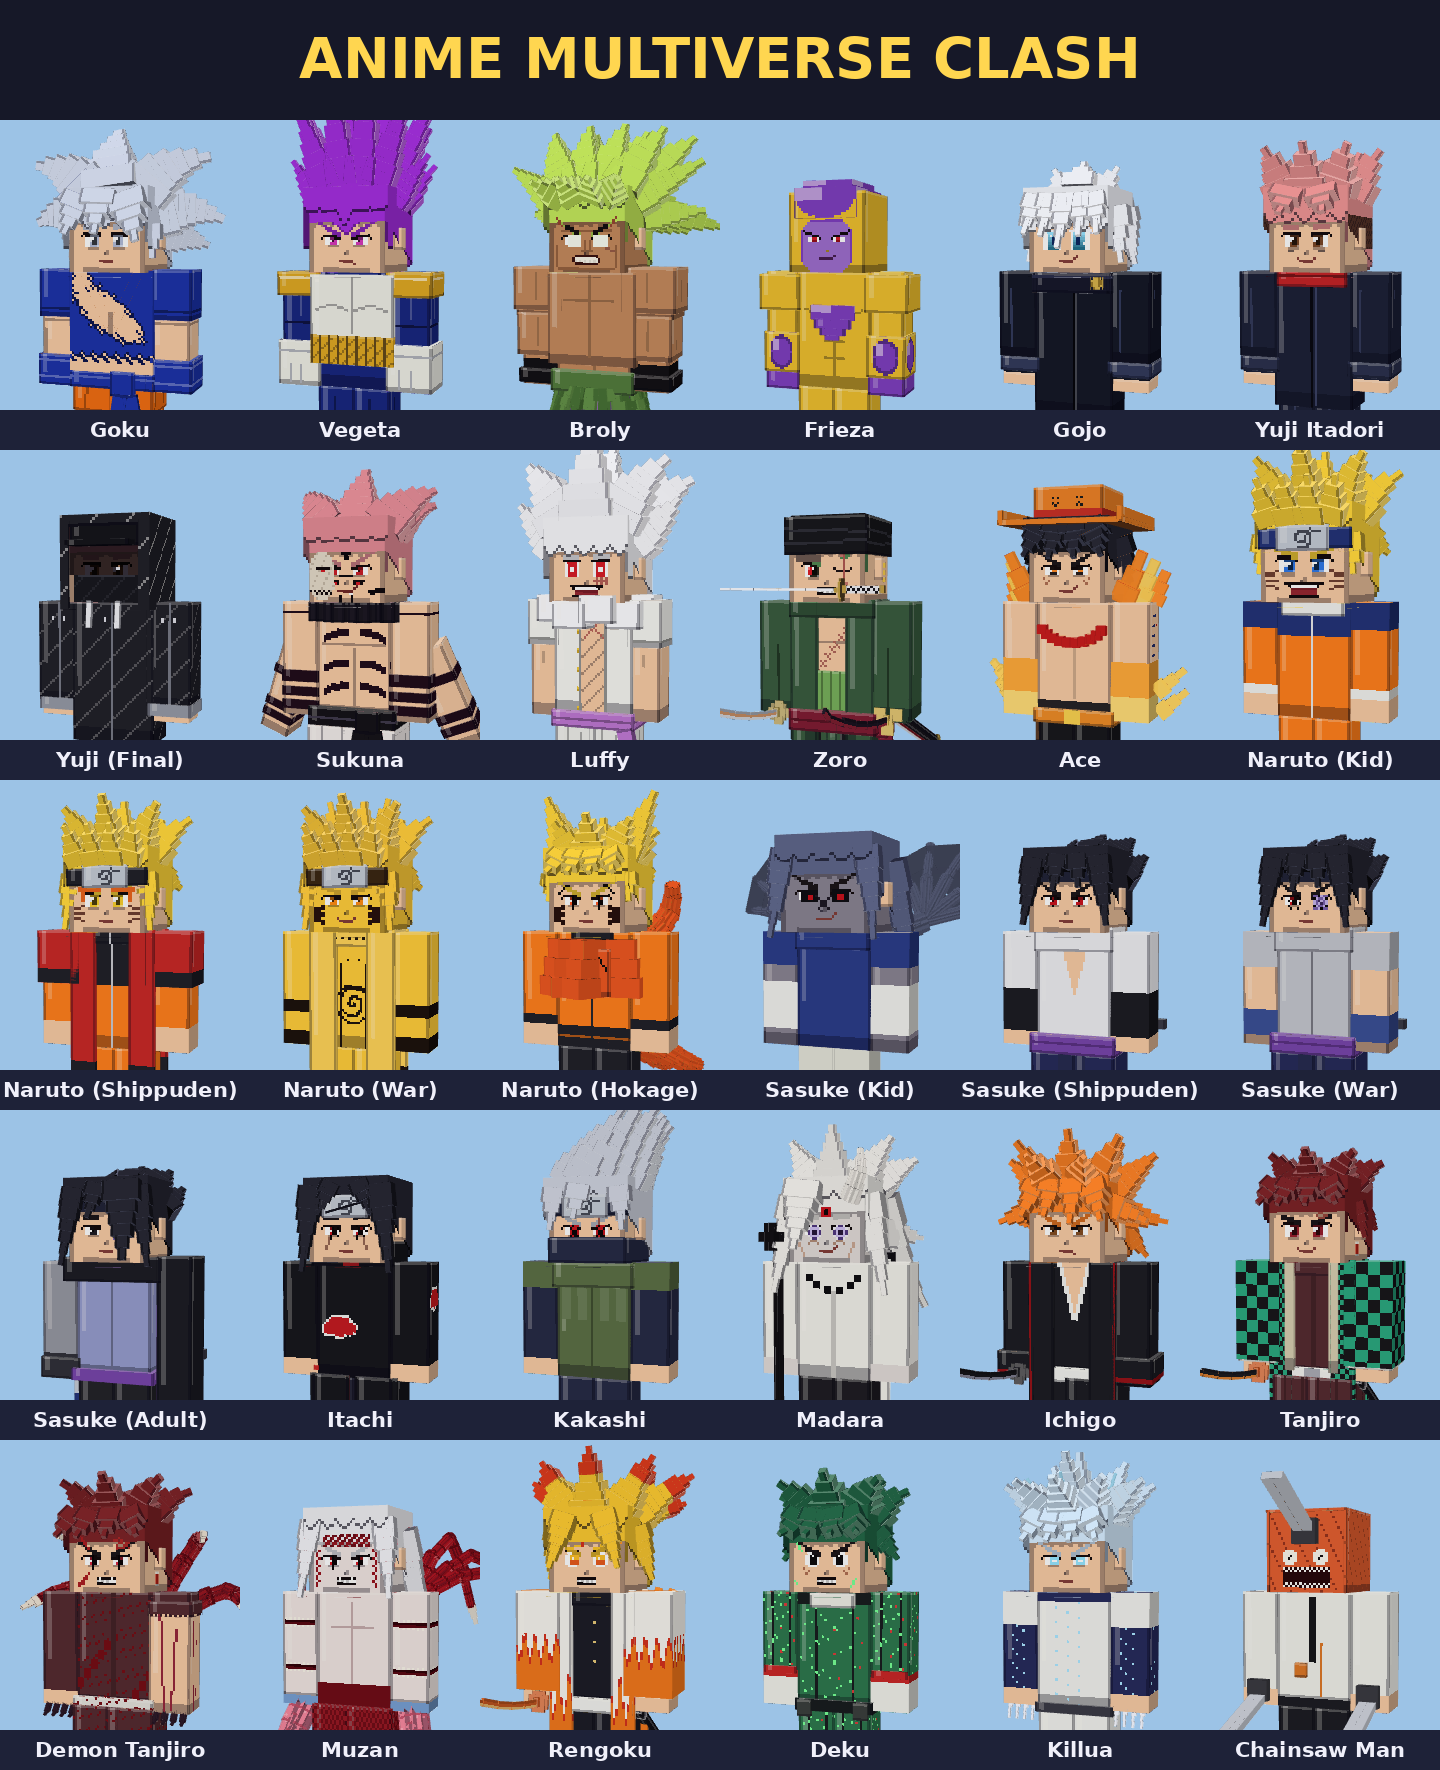
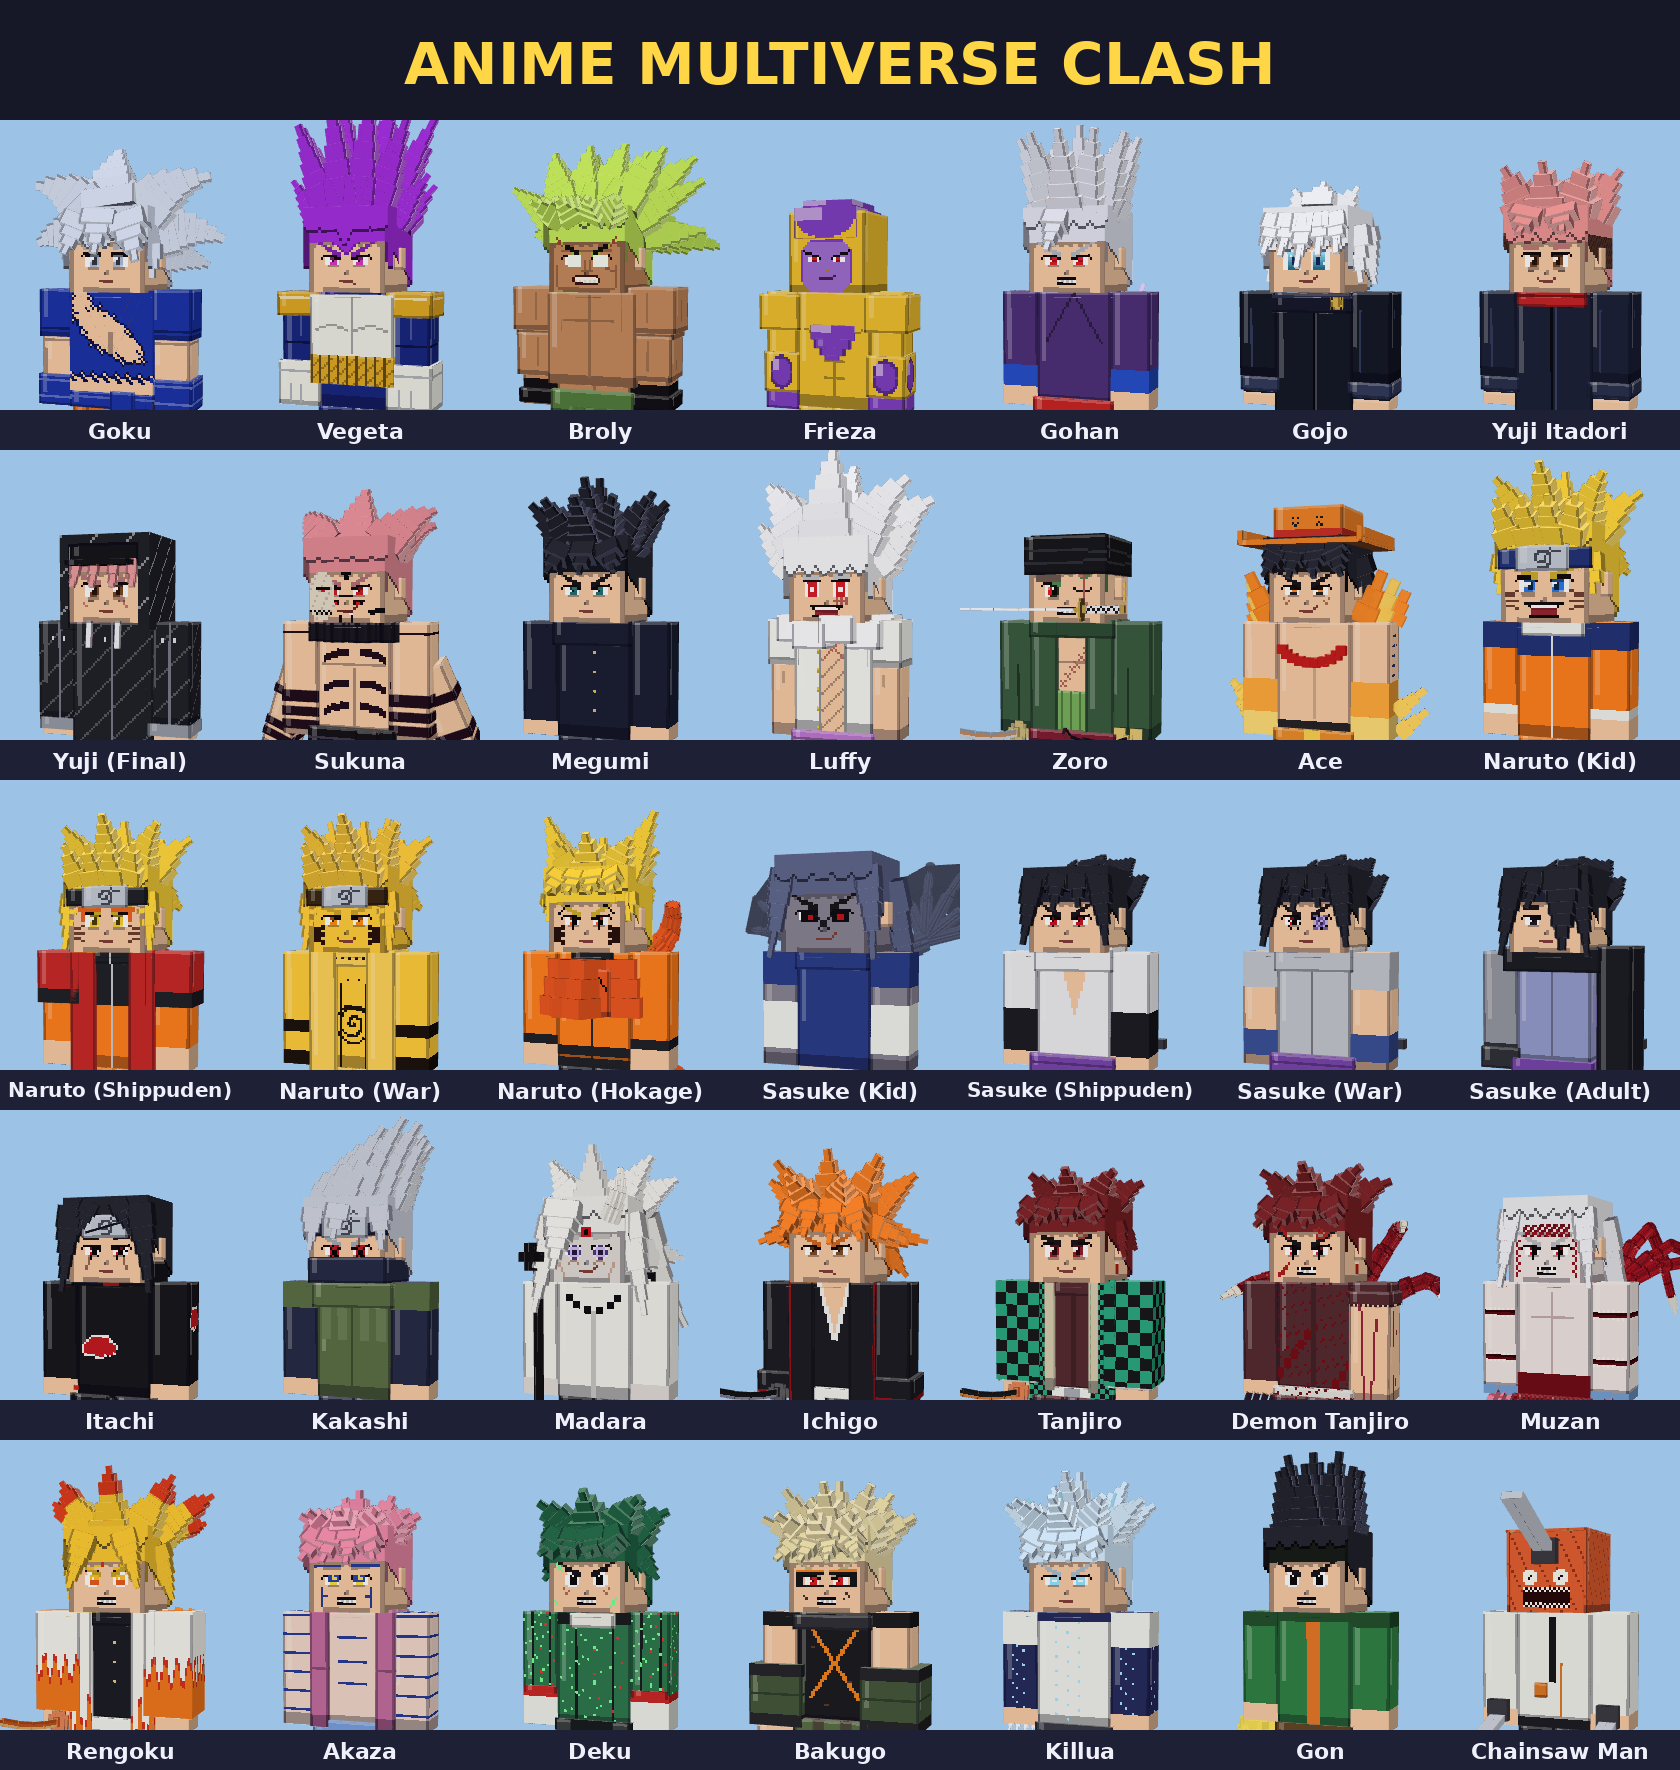
Roster image with all 35 fighters; Bakugo power lowered below Gojo/Deku; idea file ladder
Claude-Session: https://claude.ai/code/session_01Wj3ZgCx2qQCLAKn6cyfvsa

diff --git a/AnimeBattles/BP/scripts/main.js b/AnimeBattles/BP/scripts/main.js
@@ -4368,7 +4368,7 @@ const GOHAN = {
 const BAKUGO = {
   name: "Bakugo", color: "§6", energy: 1100, regen: 22, energyName: "§6NITRO",
   dodge: () => 0.14,
-  forms: [{ label: "Explosion", power: 85, aura: C.fire }, { label: "Cluster", power: 130, aura: C.ember }],
+  forms: [{ label: "Explosion", power: 78, aura: C.fire }, { label: "Cluster", power: 108, aura: C.ember }],
   thresholds: [0.5], transformCd: 120, formSound: [null, "random.explode"],
   abilities: [
     SIG.ball("blast", "Explosion", { say: "§6§lDIE!", color: C.fire, count: 1, size: 1.4, dmg: 20, speed: 2.4, cd: 100, cost: 50, charge: 2, pose: 5, radius: 3 }),

diff --git a/AnimeBattles/README.md b/AnimeBattles/README.md
@@ -37,7 +37,7 @@
 - **سون غوهان (Dragon Ball)** (ذكاء 8):
   - **التحولات:** العادي بنظاراته ← سوبر ساين 2 مع برق ← Ultimate (الصوفي) ← **Beast**، بشعر فضي طويل وعيون حمرا.
   - **القدرات:** وابل كي، Masenko، Kamehameha، انفجار الغضب، هجمة Ultimate، **Special Beam Cannon** (ضربة بيكولو)، و**Beast Kamehameha**.
-- **كاتسوكي باكوغو (My Hero Academia)** (ذكاء 8):
+- **كاتسوكي باكوغو (My Hero Academia)** (ذكاء 8، أضعف من ديكو):
   - **التحولات:** Explosion ← **Cluster**، تطلع انفجارات من كفوفه.
   - **القدرات:** انفجار، AP Shot، Stun Grenade، هجمة انفجارات، **Howitzer Impact**، Cluster، و**Max Cannon** من قفازاته القنابل.
 - **غون فريكس (Hunter × Hunter)** (ذكاء 4):

diff --git a/ANIME_BATTLES_IDEA.md b/ANIME_BATTLES_IDEA.md
@@ -27,6 +27,8 @@
 
 **الشخصيات الجديدة (1.18):** ديكو 168، تشينسو مان 150، إيس 115، كيلوا 110، رينغوكو 95.
 
+**الشخصيات الجديدة (1.19):** غوهان 700 (Beast، تحت فيجيتا)، غون الكبير 200، أكازا 140 (أقوى من رينغوكو مثل الأنمي)، ميغومي 112 (تحت غوجو وسوكونا)، باكوغو 108 (تحت ديكو).
+
 ## اللي يخلي القتال خرافي (من بحث مودات الجافا)
 مصادر البحث: Jujutsu Craft (Sorcery Fight)، Mob Battle Mod لـ flemmli97، Jujutsu Craft Mob Battle Addon (حوالي 1.5 مليون تنزيل)،
 Dragon Block C / Dragon Ball: Re، Epic Fight، Anime Assembly، AnimeBosses، The Anime Universe.
